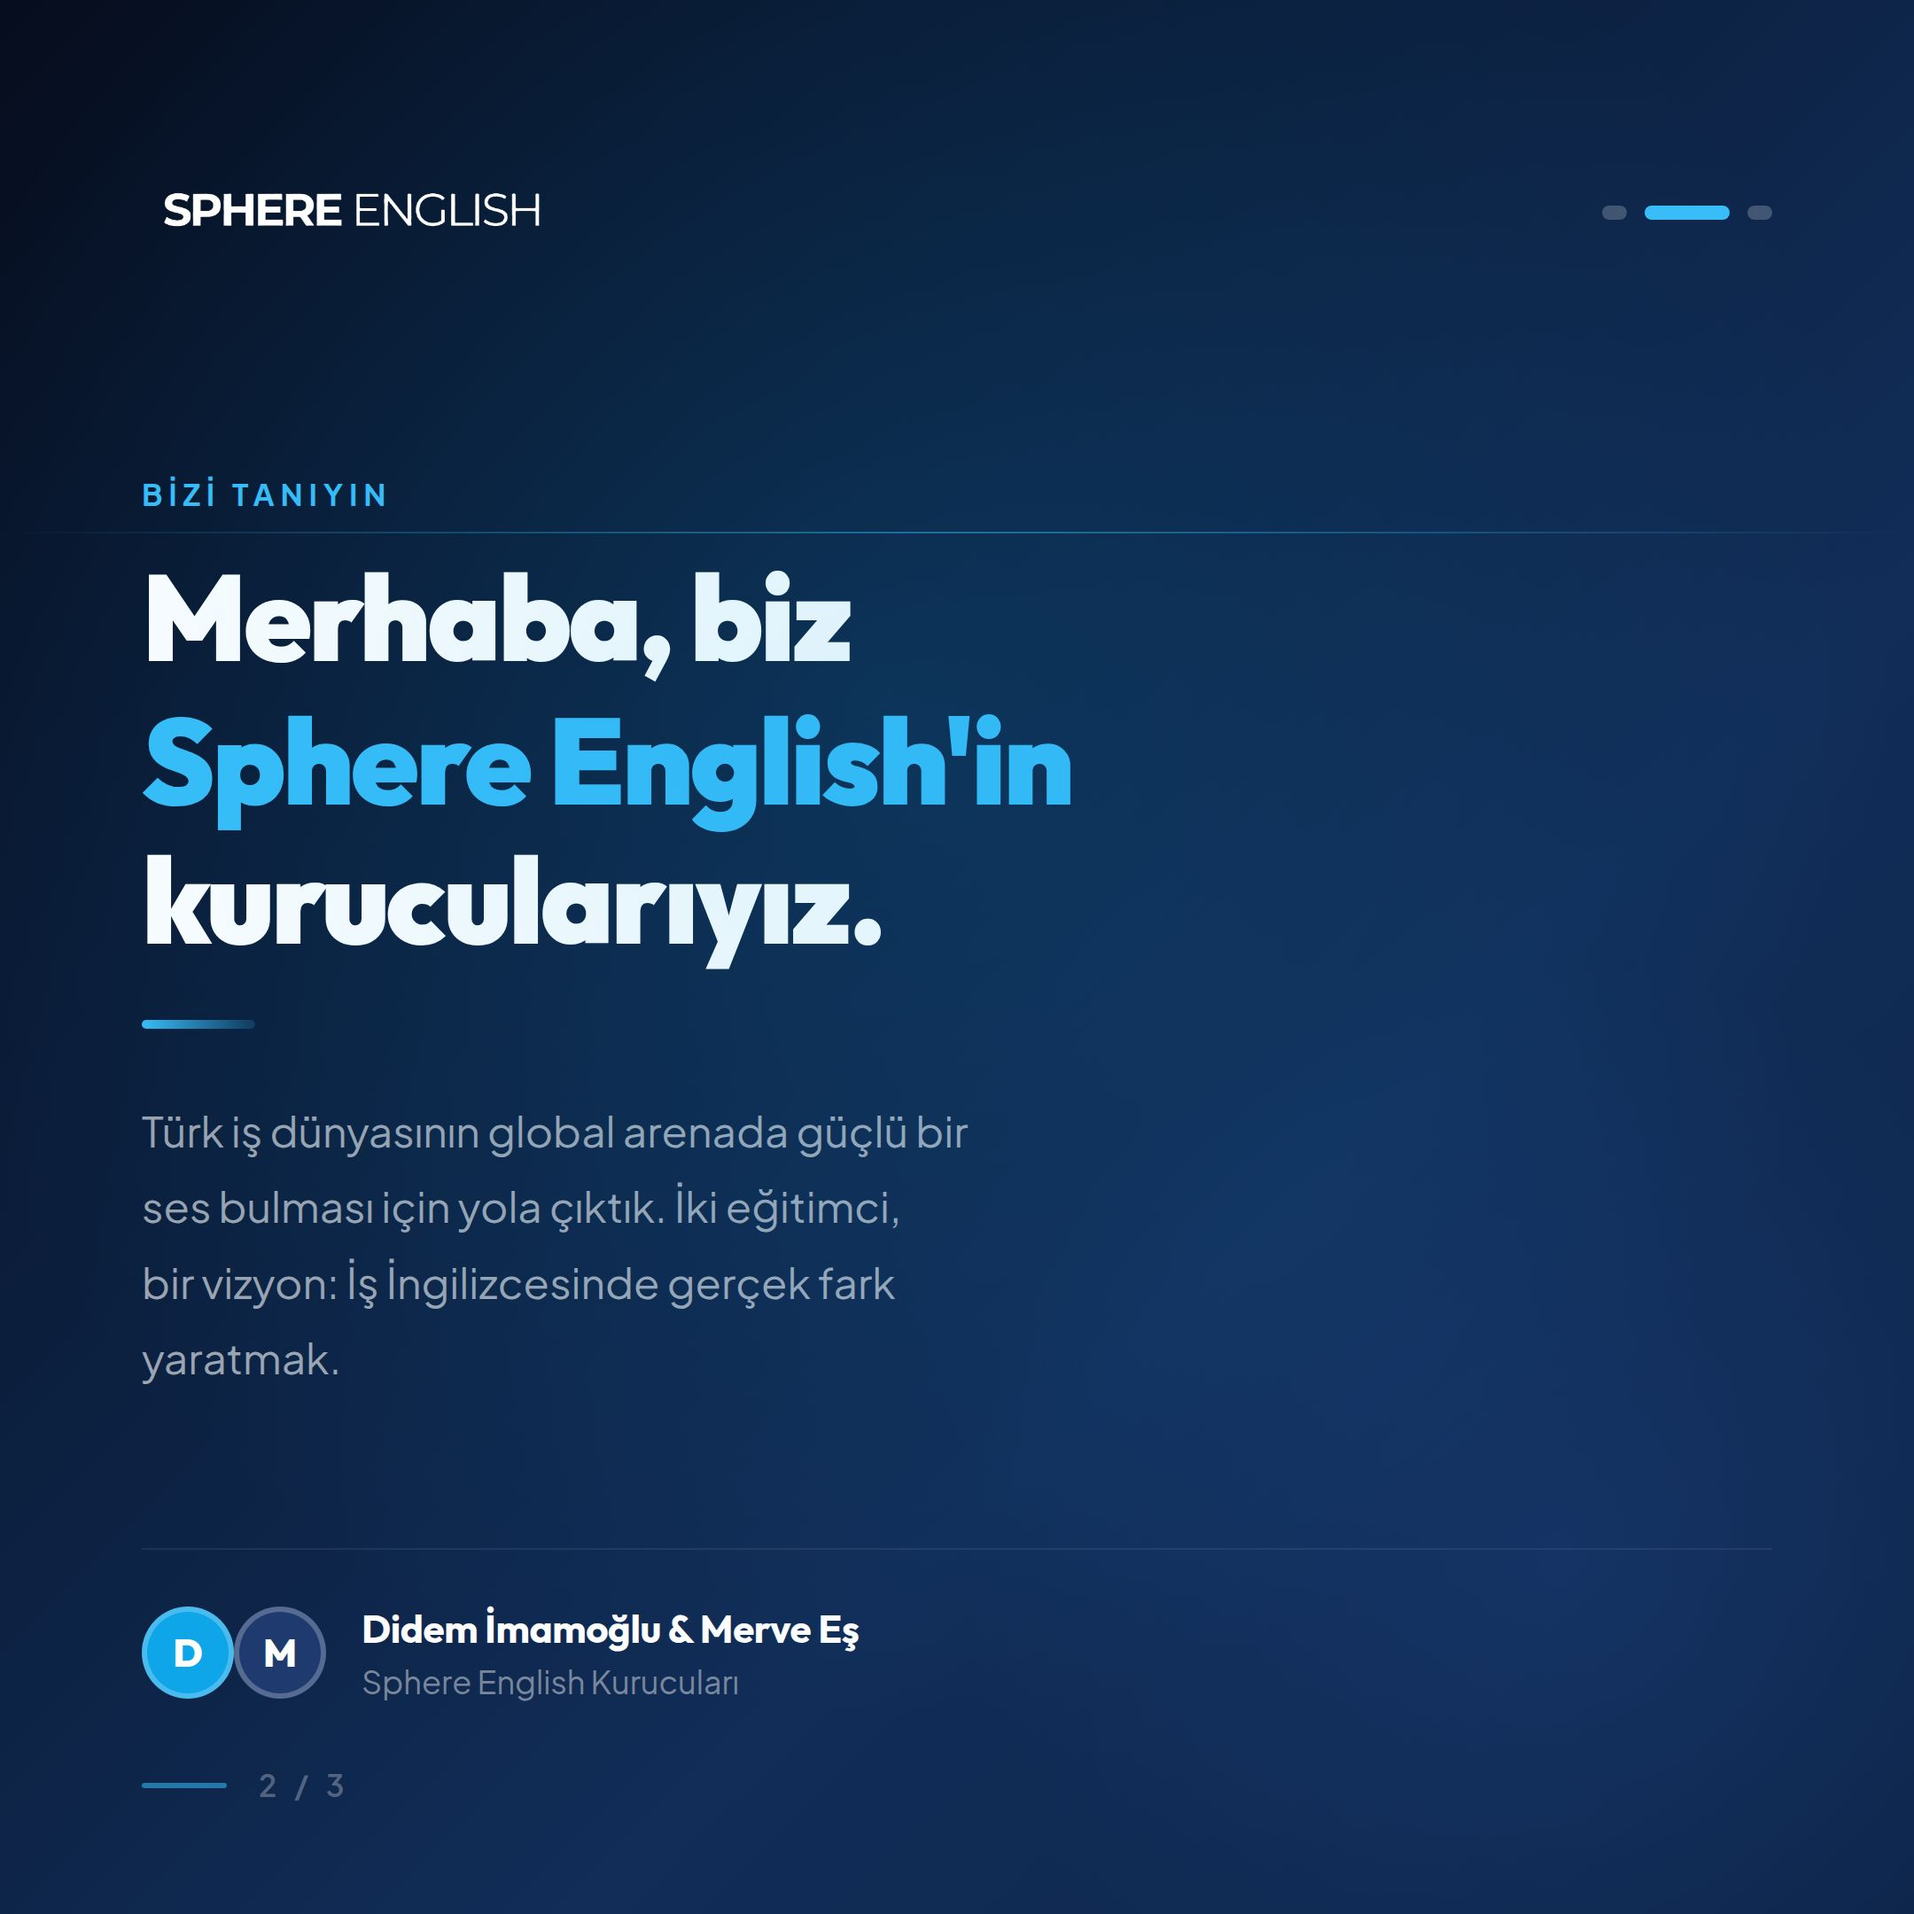
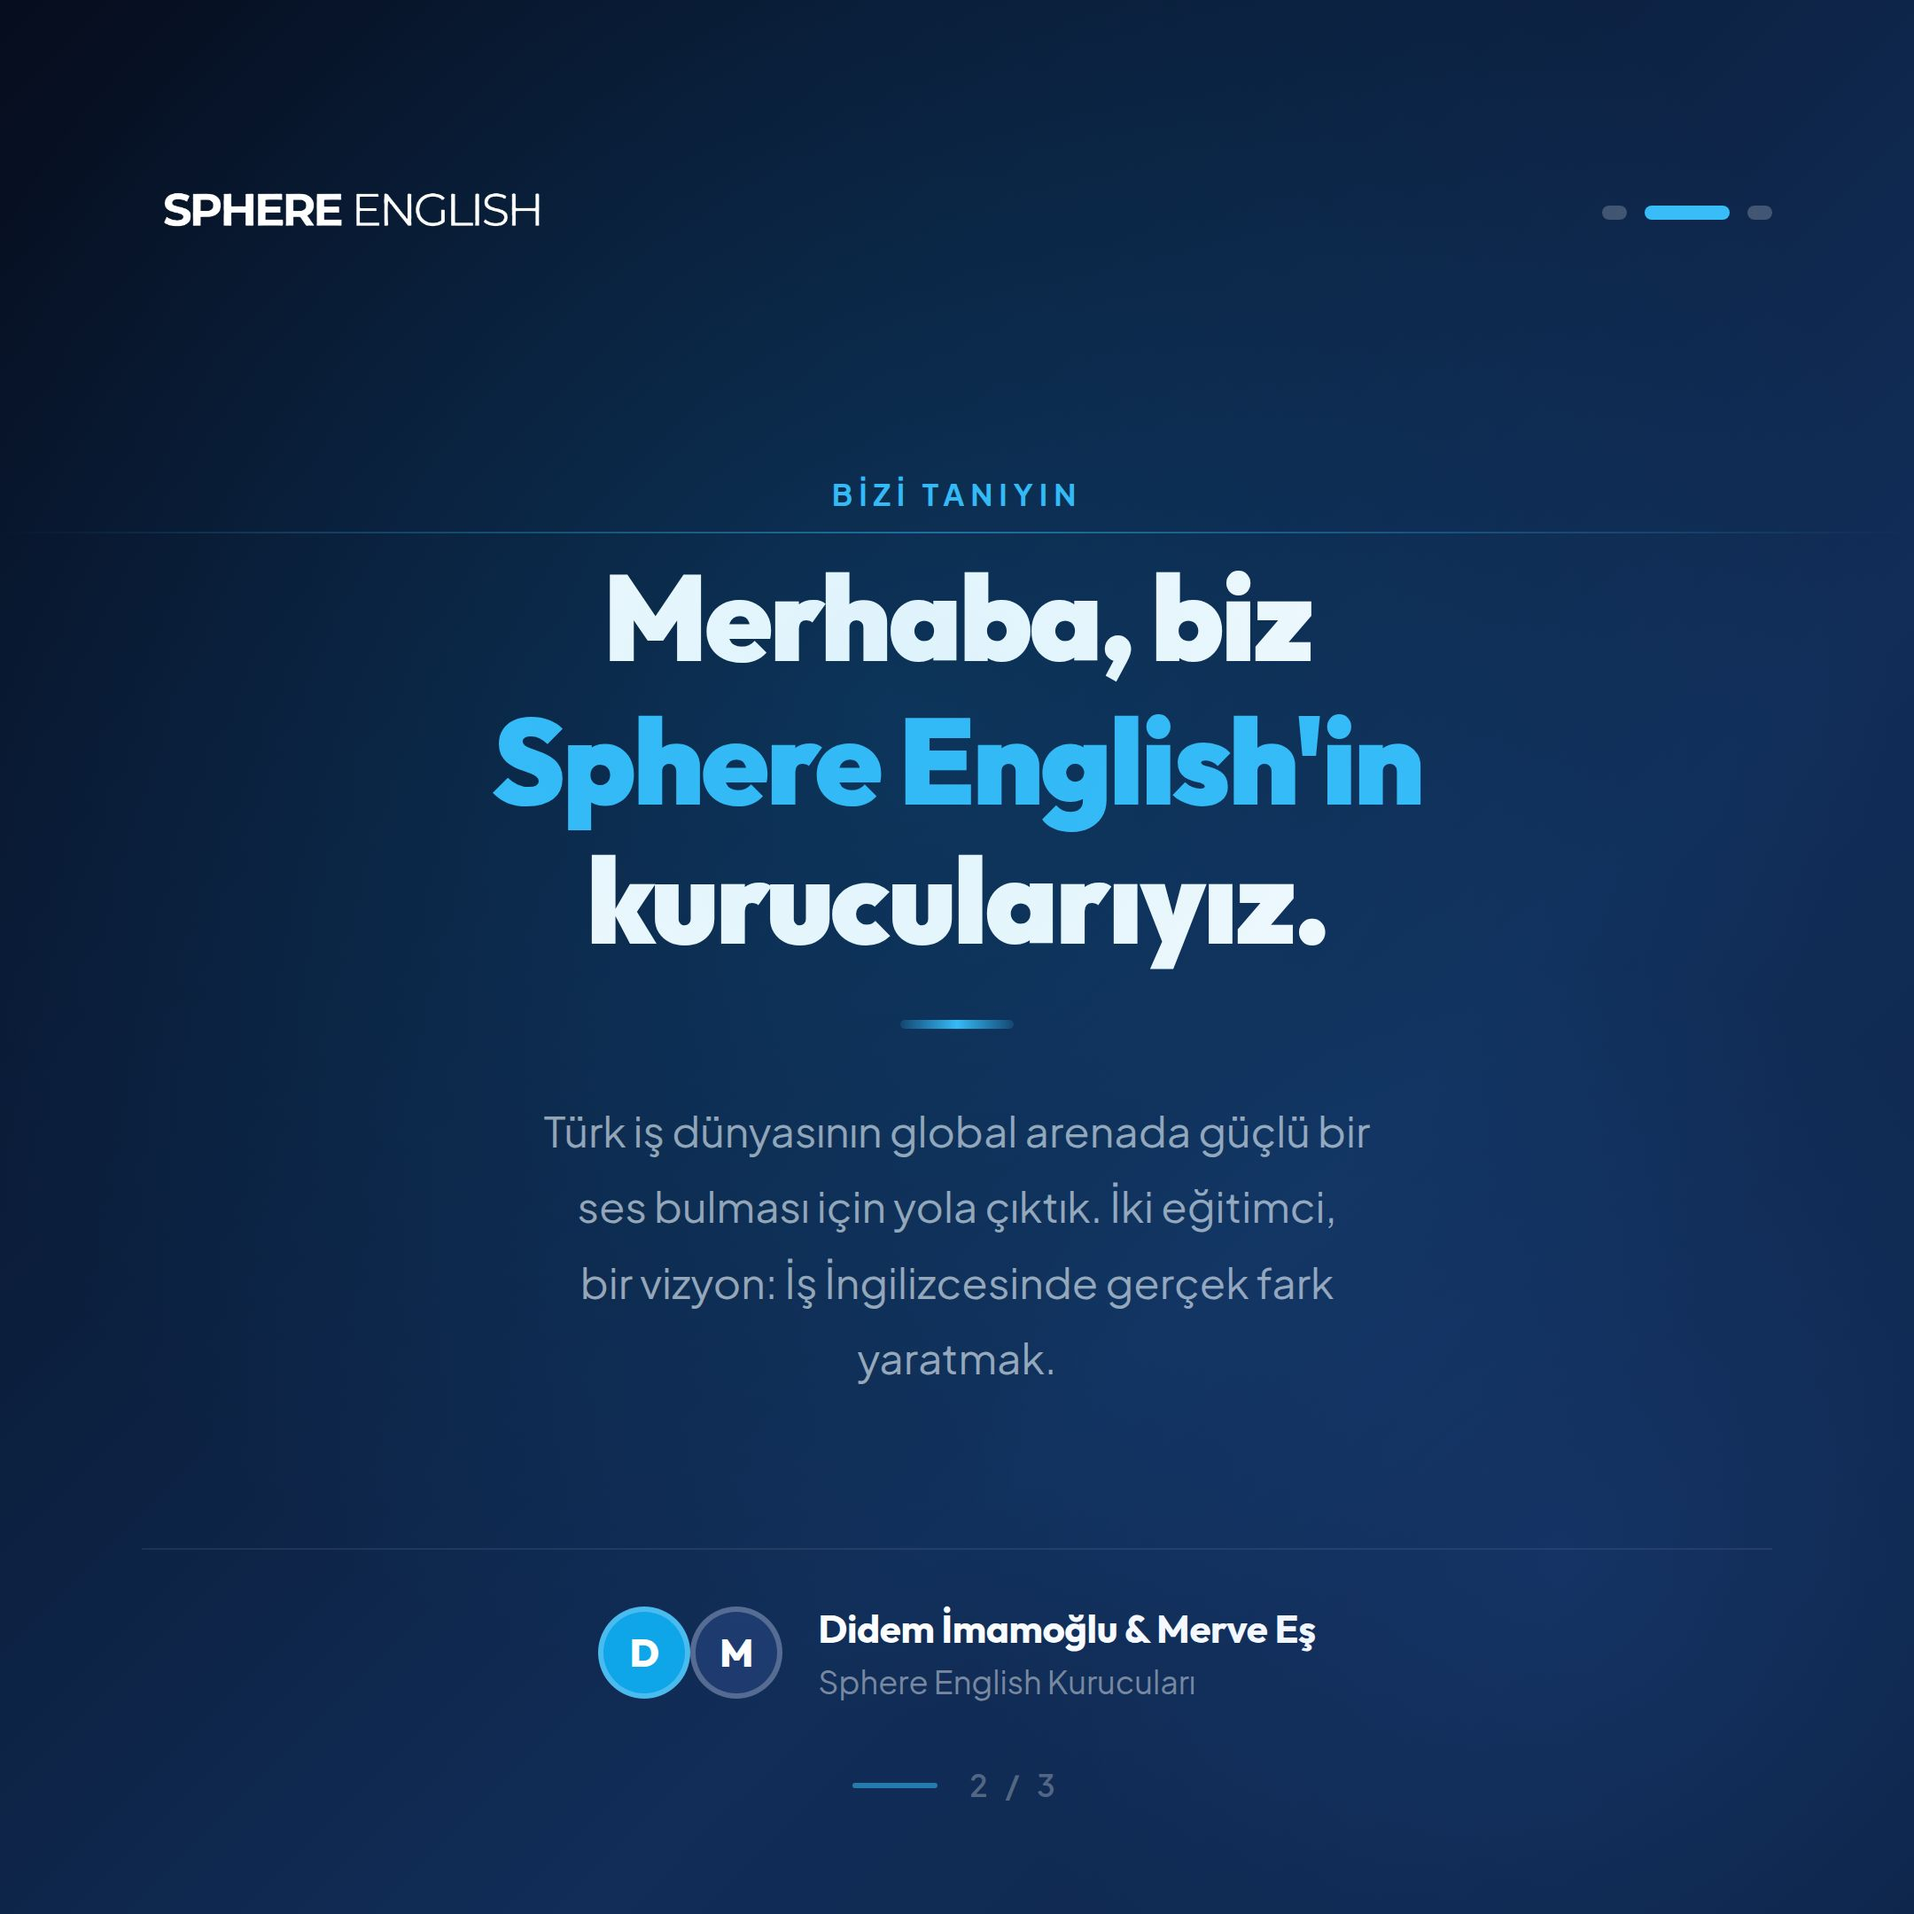
Center all content in the second founder panel message
Update FoundersPost component to center-align text and elements in panel 2, and update the saved panel image.

Replit-Commit-Author: Agent
Replit-Commit-Session-Id: 7828208e-226c-43ef-9a3e-875997ce7956
Replit-Commit-Checkpoint-Type: full_checkpoint
Replit-Commit-Event-Id: 20e66e0d-19f0-42e7-bec6-2270cefbacc1
Replit-Commit-Screenshot-Url: https://storage.googleapis.com/screenshot-production-us-central1/f780e6cf-cd3b-477f-8b05-3e4b163e7069/7828208e-226c-43ef-9a3e-875997ce7956/Xan0gov
Replit-Helium-Checkpoint-Created: true

diff --git a/artifacts/mockup-sandbox/src/components/mockups/instagram-post/FoundersPost.tsx b/artifacts/mockup-sandbox/src/components/mockups/instagram-post/FoundersPost.tsx
@@ -145,8 +145,8 @@ export default function FoundersPost() {
             <PanelDots current={2} />
           </div>
 
-          {/* MIDDLE: Mesaj */}
-          <div>
+          {/* MIDDLE: Mesaj — ortalı */}
+          <div style={{ display:"flex", flexDirection:"column", alignItems:"center", textAlign:"center" }}>
             {/* Eyebrow */}
             <div style={{ fontSize:px(17), fontWeight:700, letterSpacing:"0.2em", color:ACCENT, textTransform:"uppercase", fontFamily:'"Plus Jakarta Sans", sans-serif', marginBottom:px(24) }}>
               BİZİ TANIYIN
@@ -164,7 +164,7 @@ export default function FoundersPost() {
             </div>
 
             {/* Divider */}
-            <div style={{ width:px(64), height:px(5), background:`linear-gradient(to right, ${ACCENT}, rgba(56,189,248,0.15))`, borderRadius:px(3), marginBottom:px(36) }} />
+            <div style={{ width:px(64), height:px(5), background:`linear-gradient(to right, rgba(56,189,248,0.15), ${ACCENT}, rgba(56,189,248,0.15))`, borderRadius:px(3), marginBottom:px(36) }} />
 
             {/* Hikaye metni */}
             <div style={{ fontSize:px(24), color:MUTED, lineHeight:1.78, fontFamily:'"Plus Jakarta Sans", sans-serif' }}>
@@ -175,16 +175,15 @@ export default function FoundersPost() {
             </div>
           </div>
 
-          {/* BOTTOM: Avatar çifti + isimler */}
-          <div>
+          {/* BOTTOM: Avatar çifti + isimler — ortalı */}
+          <div style={{ display:"flex", flexDirection:"column", alignItems:"center" }}>
             <div style={{ width:"100%", height:px(1), background:"rgba(255,255,255,0.08)", marginBottom:px(28) }} />
             <div style={{ display:"flex", alignItems:"center", gap:px(20), marginBottom:px(32) }}>
-              {/* Avatarlar üst üste */}
               <div style={{ display:"flex" }}>
                 <Avatar letter="D" color={ACCENT2} />
                 <Avatar letter="M" color={PRIMARY} />
               </div>
-              <div>
+              <div style={{ textAlign:"left" }}>
                 <div style={{ fontSize:px(22), fontWeight:700, color:WHITE, letterSpacing:"-0.01em" }}>
                   Didem İmamoğlu & Merve Eş
                 </div>
